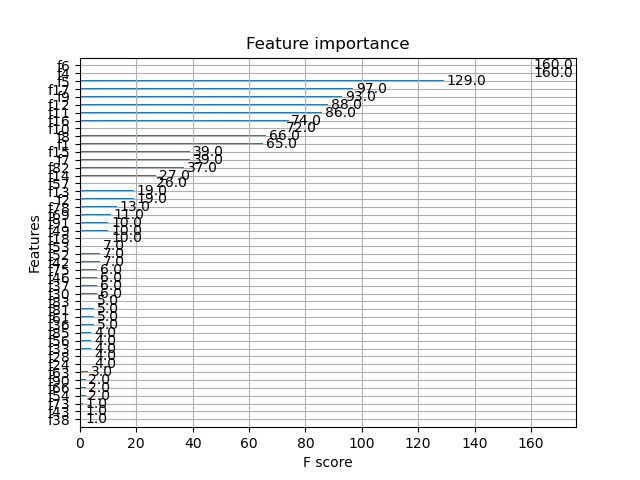
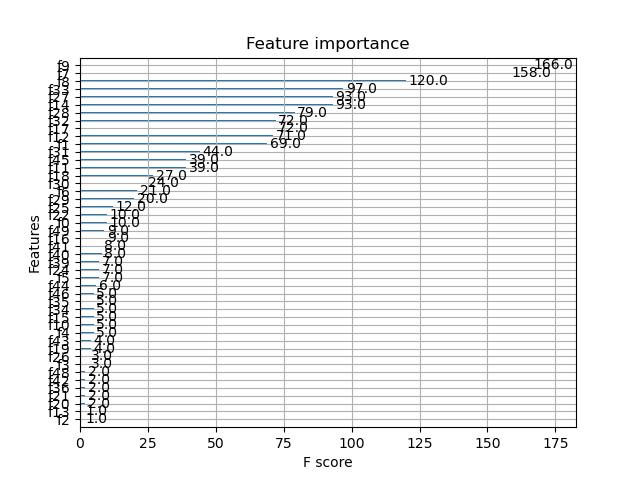
preprocess binary categorical features

diff --git a/final.py b/final.py
@@ -58,7 +58,7 @@ def get_mapper(df):
     for col_name in df.columns:
         if col_name in ['Customer ID', 'Churn Category']:
             continue
-        elif col_name in ['Count', 'Country', 'State', 'City', 'Quarter']:
+        elif col_name in ['Count', 'Count_x', 'Count_y', 'Country', 'State', 'City', 'Quarter']:
             continue
         elif df[col_name].dtypes == 'float64':
             # store the mean
@@ -66,6 +66,7 @@ def get_mapper(df):
         else:
             # store the categories and the mode
             categories = df[col_name].unique()
+            categories = categories[~pd.isnull(categories)]
             mapper[col_name] = (categories, df[col_name].mode()[0])
     return mapper
 
@@ -82,7 +83,7 @@ def preprocess_data(df, mapper):
     for col_name in df.columns:
         if col_name in ['Customer ID', 'Churn Category']: # skip
             continue
-        elif col_name in ['Count', 'Country', 'State', 'City', 'Quarter']: # useless features
+        elif col_name in ['Count', 'Count_x', 'Count_y', 'Country', 'State', 'City', 'Quarter']: # useless features
             df = df.drop(col_name, axis=1)
         elif df[col_name].dtypes == 'float64': # numeric features
             val = mapper[col_name]
@@ -91,9 +92,12 @@ def preprocess_data(df, mapper):
             categories, val = mapper[col_name]
             df[col_name] = df[col_name].fillna(val)
             # encode categorical features to one-hot
-            for category in categories:
-                df[f'{col_name}_{category}'] = df[col_name].map(lambda x: 1 if x == category else 0)
-            df = df.drop(col_name, axis=1)
+            if len(categories) == 2: # binary case (Yes/No, Male/Female)
+                df[col_name] = df[col_name].map(lambda x: 1 if x == categories[0] else 0)
+            else:
+                for category in categories:
+                    df[f'{col_name}_{category}'] = df[col_name].map(lambda x: 1 if x == category else 0)
+                df = df.drop(col_name, axis=1)
     features = [col_name for col_name in df.columns if col_name not in ['Customer ID', 'Churn Category']]
     # print(f'features after preprocessing:\n{features}\n')
 
